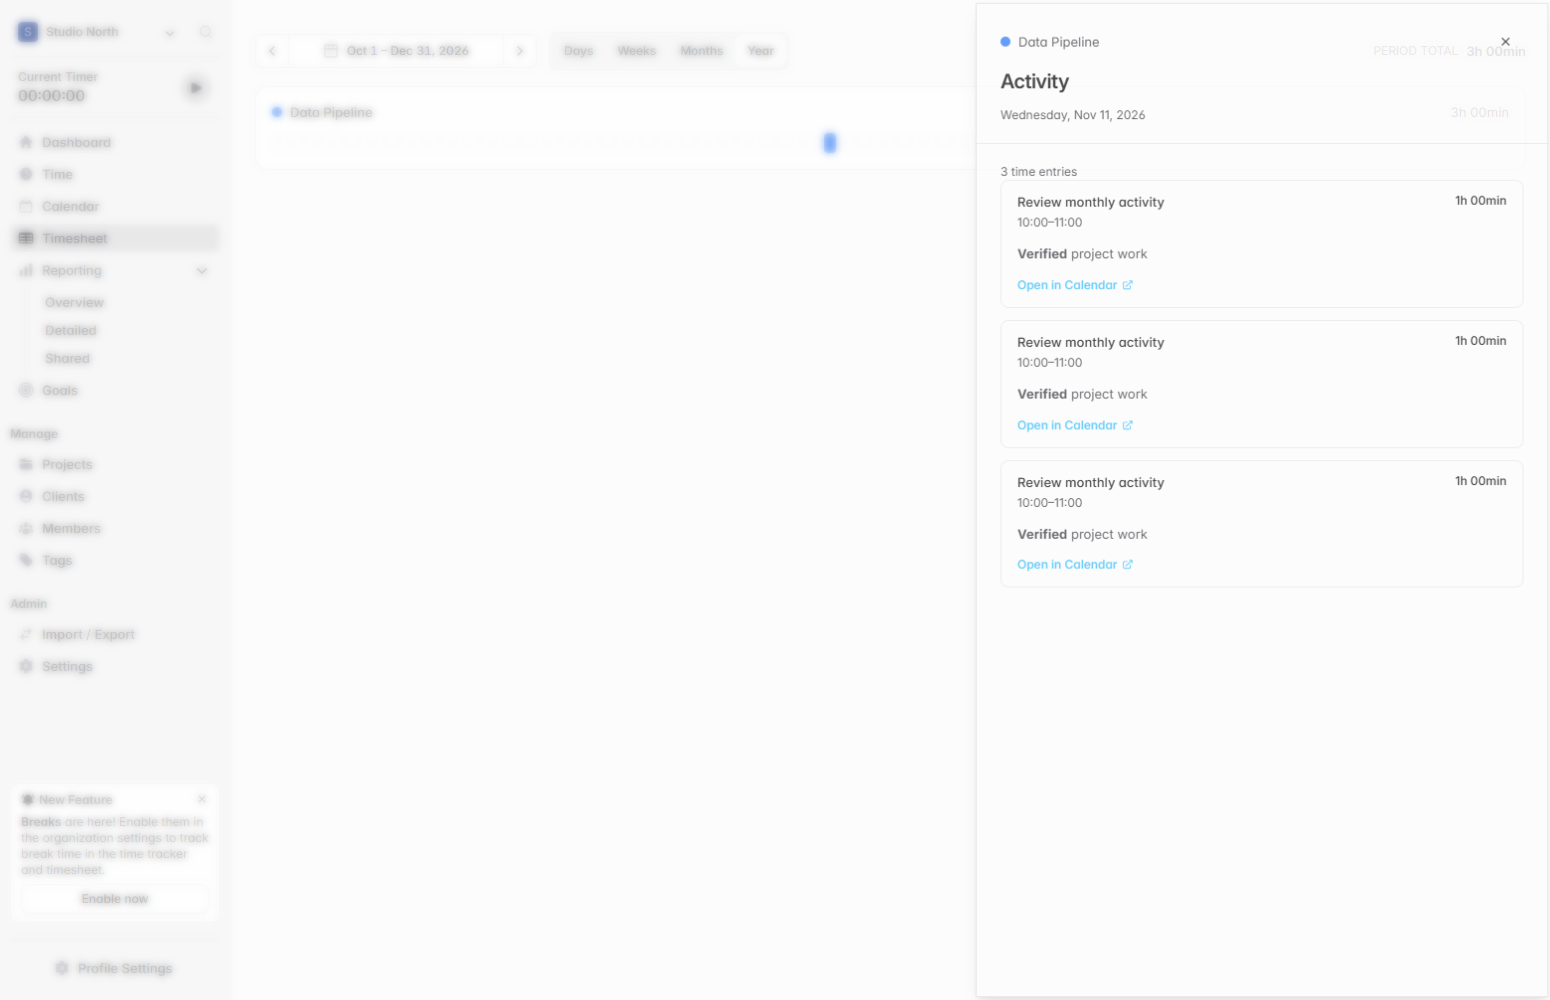
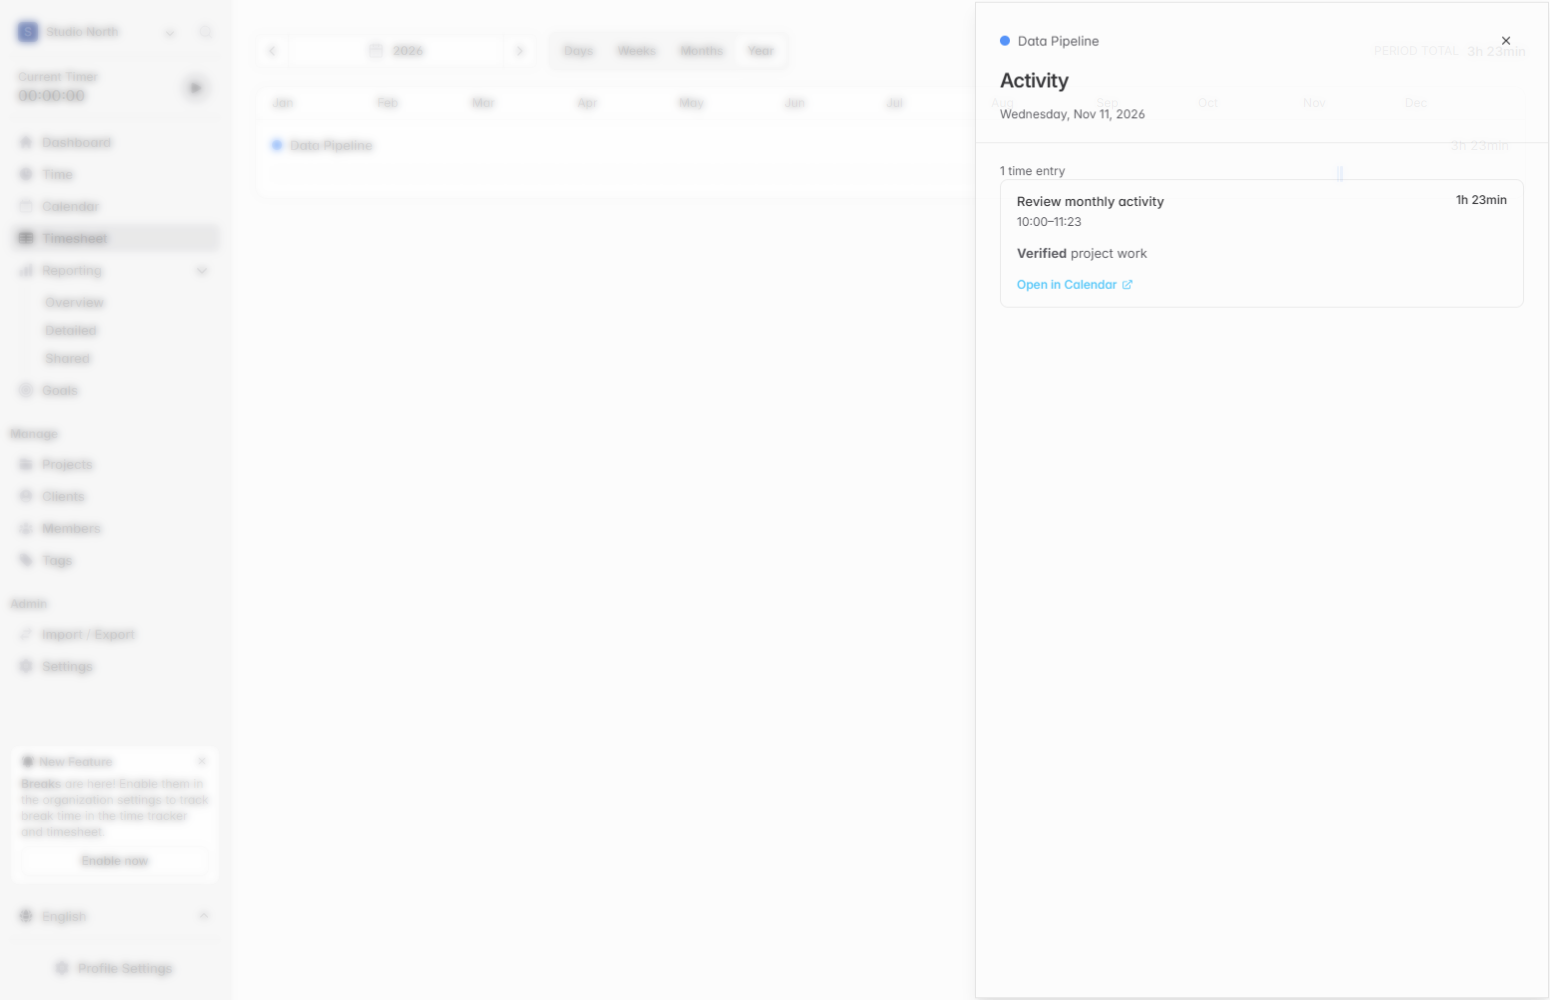
docs: update the Timesheet PR draft for the full-year view

diff --git a/README.md b/README.md
@@ -5,7 +5,7 @@ When a project has several tasks, billable settings, or tags, its hours can be s
 ## What changes
 
 - **Days** shows a collapsible row for each project with daily hours and a weekly total. Expand a project to edit the existing task, billing, and tag rows.
-- **Weeks** shows 12 weeks of actual hours by project. **Months** shows one calendar month with a column for each day, and **Year** shows daily activity as compact colored bars, three months at a time.
+- **Weeks** shows 12 weeks of actual hours by project. **Months** shows one calendar month with a column for each day, and **Year** shows daily activity as compact colored bars, for the entire calendar year.
 - The timeline takes inspiration from the [DeepSeek status page](https://status.deepseek.com/). Project-colored cells show periods with tracked work, and gray cells show periods with no recorded time. In **Weeks**, select a week to open the daily Timesheet with the project expanded. In **Months** and **Year**, select any date cell to open your Activity for that project and day, including time entries, Markdown notes, and links to Calendar.
 
 ![Weekly project totals showing periods of work and gaps](.github/feature-images/timesheet-history-weeks.png)
@@ -16,13 +16,13 @@ When a project has several tasks, billable settings, or tags, its hours can be s
 
 ![Daily project activity in the monthly Timesheet](.github/feature-images/timesheet-month-activity.png)
 
-![Daily activity bars in Timesheet Year](.github/feature-images/timesheet-year-daily.png)
+![Full calendar year of daily activity bars in Timesheet Year](.github/feature-images/timesheet-year-daily.png)
 
-Year loads only the displayed quarter and looks up each entry's date directly when aggregating time.
+Timesheet displays durations to the minute and keeps the underlying time entries at their original precision. Year looks up each entry's date directly when aggregating time.
 
 ## Verification
 
-The Year update passed the frontend build and TypeScript check. In Edge I verified 92 daily bars for the fourth quarter and opened the day's Activity with its recorded notes.
+The frontend build passed. In a local browser I verified all 365 dates in 2026, minute-only durations, and Activity drawers for dates with and without records.
 
 The monthly update was verified in Edge against a local Solidtime API, including November daily columns, populated and empty Activity drawers, Markdown notes, and the Year view. The production frontend build and TypeScript check passed.
 
